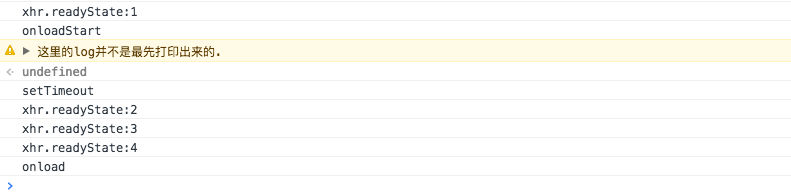
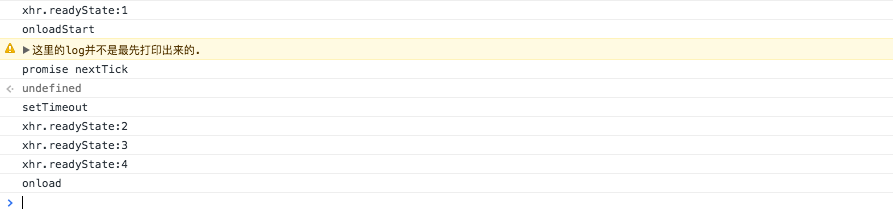
Site updated: 2017-09-25 14:49:25

diff --git a/2016/11/02/ajax/index.html b/2016/11/02/ajax/index.html
@@ -30,7 +30,7 @@
 <meta property="og:image" content="http://louiszhai.github.io/docImages/ajax20.png">
 <meta property="og:image" content="http://louiszhai.github.io/docImages/ajax21.png">
 <meta property="og:image" content="http://louiszhai.github.io/docImages/ajax26.png">
-<meta property="og:updated_time" content="2017-07-17T08:51:51.000Z">
+<meta property="og:updated_time" content="2017-09-25T06:48:29.000Z">
 <meta name="twitter:card" content="summary">
 <meta name="twitter:title" content="Ajax知识体系大梳理">
 <meta name="twitter:description" content="ajax XMLHttpRequest xhr fetch XDomainRequest jquery.ajax overrideMimeType CORS FileReader postman angular withCredentials setRequestHeader getAllResponseHeaders upload ajax与history的兼容 ajax跨域请求 ajax文件上">
@@ -269,10 +269,10 @@
 <p>在 <code>onreadystatechange</code> 事件内部, 有可能对dom进行操作. 此时浏览器便会挂起js引擎线程, 转而执行GUI渲染线程, 进行UI重绘(repaint)或者回流(reflow). 当js引擎重新执行时, GUI渲染线程又会被挂起, GUI更新将被保存起来, 等到js引擎空闲时立即被执行.</p>
 <p>以上整个ajax请求过程中, 有涉及到浏览器的4种线程. 其中除了 <code>GUI渲染线程</code> 和 <code>js引擎线程</code> 是互斥的. 其他线程相互之间, 都是可以并行执行的. 通过这样的一种方式, ajax并没有破坏js的单线程机制.</p>
 <h3 id="ajax与setTimeout排队问题"><a href="#ajax与setTimeout排队问题" class="headerlink" title="ajax与setTimeout排队问题"></a>ajax与setTimeout排队问题</h3><p>通常, ajax 和 setTimeout 的事件回调都被同等的对待, 按照顺序自动的被添加到 <code>任务队列</code> 的末尾, 等待js引擎空闲时执行. 但请注意, 并非xhr的所有回调执行都滞后于setTImeout的回调. 请看如下代码:</p>
-<figure class="highlight js"><table><tr><td class="gutter"><pre><div class="line">1</div><div class="line">2</div><div class="line">3</div><div class="line">4</div><div class="line">5</div><div class="line">6</div><div class="line">7</div><div class="line">8</div><div class="line">9</div><div class="line">10</div><div class="line">11</div><div class="line">12</div><div class="line">13</div><div class="line">14</div><div class="line">15</div><div class="line">16</div><div class="line">17</div><div class="line">18</div><div class="line">19</div><div class="line">20</div></pre></td><td class="code"><pre><div class="line"><span class="function"><span class="keyword">function</span> <span class="title">ajax</span>(<span class="params">url, method</span>)</span>&#123;</div><div class="line">  <span class="keyword">var</span> xhr = getXHR();</div><div class="line">  xhr.onreadystatechange = <span class="function"><span class="keyword">function</span>(<span class="params"></span>)</span>&#123;</div><div class="line">  	<span class="built_in">console</span>.log(<span class="string">'xhr.readyState:'</span> + <span class="keyword">this</span>.readyState);</div><div class="line">  &#125;</div><div class="line">  xhr.onloadstart = <span class="function"><span class="keyword">function</span>(<span class="params"></span>)</span>&#123;</div><div class="line">  	<span class="built_in">console</span>.log(<span class="string">'onloadStart'</span>);</div><div class="line">  &#125;</div><div class="line">  xhr.onload = <span class="function"><span class="keyword">function</span>(<span class="params"></span>)</span>&#123;</div><div class="line">  	<span class="built_in">console</span>.log(<span class="string">'onload'</span>);</div><div class="line">  &#125;</div><div class="line">  xhr.open(method, url, <span class="literal">true</span>);</div><div class="line">  xhr.setRequestHeader(<span class="string">'Cache-Control'</span>,<span class="number">3600</span>);</div><div class="line">  xhr.send();</div><div class="line">&#125;</div><div class="line"><span class="keyword">var</span> timer = setTimeout(<span class="function"><span class="keyword">function</span>(<span class="params"></span>)</span>&#123;</div><div class="line">  <span class="built_in">console</span>.log(<span class="string">'setTimeout'</span>);</div><div class="line">&#125;,<span class="number">0</span>);</div><div class="line">ajax(<span class="string">'http://louiszhai.github.io/docImages/ajax01.png'</span>,<span class="string">'GET'</span>);</div><div class="line"><span class="built_in">console</span>.warn(<span class="string">'这里的log并不是最先打印出来的.'</span>);</div></pre></td></tr></table></figure>
+<figure class="highlight js"><table><tr><td class="gutter"><pre><div class="line">1</div><div class="line">2</div><div class="line">3</div><div class="line">4</div><div class="line">5</div><div class="line">6</div><div class="line">7</div><div class="line">8</div><div class="line">9</div><div class="line">10</div><div class="line">11</div><div class="line">12</div><div class="line">13</div><div class="line">14</div><div class="line">15</div><div class="line">16</div><div class="line">17</div><div class="line">18</div><div class="line">19</div><div class="line">20</div><div class="line">21</div><div class="line">22</div><div class="line">23</div><div class="line">24</div><div class="line">25</div><div class="line">26</div><div class="line">27</div><div class="line">28</div></pre></td><td class="code"><pre><div class="line">setTimeout(<span class="function"><span class="keyword">function</span>(<span class="params"></span>)</span>&#123;</div><div class="line">  <span class="built_in">console</span>.log(<span class="string">'setTimeout'</span>);</div><div class="line">&#125;,<span class="number">0</span>);</div><div class="line"><span class="keyword">var</span> resolve;</div><div class="line"><span class="keyword">new</span> <span class="built_in">Promise</span>(<span class="function"><span class="keyword">function</span>(<span class="params">r</span>)</span>&#123;</div><div class="line">  resolve = r;</div><div class="line">&#125;).then(<span class="function"><span class="keyword">function</span>(<span class="params"></span>)</span>&#123;</div><div class="line">  <span class="built_in">console</span>.log(<span class="string">'promise nextTick'</span>);</div><div class="line">&#125;);</div><div class="line">resolve();</div><div class="line"></div><div class="line"><span class="function"><span class="keyword">function</span> <span class="title">ajax</span>(<span class="params">url, method</span>)</span>&#123;</div><div class="line">  <span class="keyword">var</span> xhr = getXHR();</div><div class="line">  xhr.onreadystatechange = <span class="function"><span class="keyword">function</span>(<span class="params"></span>)</span>&#123;</div><div class="line">  	<span class="built_in">console</span>.log(<span class="string">'xhr.readyState:'</span> + <span class="keyword">this</span>.readyState);</div><div class="line">  &#125;</div><div class="line">  xhr.onloadstart = <span class="function"><span class="keyword">function</span>(<span class="params"></span>)</span>&#123;</div><div class="line">  	<span class="built_in">console</span>.log(<span class="string">'onloadStart'</span>);</div><div class="line">  &#125;</div><div class="line">  xhr.onload = <span class="function"><span class="keyword">function</span>(<span class="params"></span>)</span>&#123;</div><div class="line">  	<span class="built_in">console</span>.log(<span class="string">'onload'</span>);</div><div class="line">  &#125;</div><div class="line">  xhr.open(method, url, <span class="literal">true</span>);</div><div class="line">  xhr.setRequestHeader(<span class="string">'Cache-Control'</span>,<span class="number">3600</span>);</div><div class="line">  xhr.send();</div><div class="line">&#125;</div><div class="line">ajax(<span class="string">'http://louiszhai.github.io/docImages/ajax01.png'</span>,<span class="string">'GET'</span>);</div><div class="line"><span class="built_in">console</span>.warn(<span class="string">'这里的log并不是最先打印出来的.'</span>);</div></pre></td></tr></table></figure>
 <p>上述代码执行结果如下图:</p>
 <p><img src="http://louiszhai.github.io/docImages/ajax27.png" alt="setTimeout &amp; ajax &amp; 同步"></p>
-<p>由于ajax异步, setTimeout回调本应该最先被执行, 然而实际上, 一次ajax请求, 并非所有的部分都是异步的, 至少”readyState==1”的 <code>onreadystatechange</code> 回调以及 <code>onloadstart</code> 回调就是同步执行的. 因此它们的输出排在最前面.</p>
+<p>由于ajax异步, setTimeout及Promise本应该最先被执行, 然而实际上, 一次ajax请求, 并非所有的部分都是异步的, 至少”readyState==1”的 <code>onreadystatechange</code> 回调以及 <code>onloadstart</code> 回调就是同步执行的. 因此它们的输出排在最前面.</p>
 <h3 id="XMLHttpRequest-属性解读"><a href="#XMLHttpRequest-属性解读" class="headerlink" title="XMLHttpRequest 属性解读"></a>XMLHttpRequest 属性解读</h3><p>首先在Chrome console下创建一个 XMLHttpRequest 实例对象xhr. 如下所示:</p>
 <p><img src="http://louiszhai.github.io/docImages/ajax01.png" alt="XMLHttpRequest"></p>
 <h4 id="inherit"><a href="#inherit" class="headerlink" title="inherit"></a>inherit</h4><p>试运行以下代码.</p>
@@ -380,7 +380,7 @@
 <p>注意第一条，readyState为<code>unset</code>之前，为xhr对象设置withCredentials属性就会抛出<code>INVALID_STATE_ERR</code>错误。</p>
 <p>目前，一些老的浏览器或webview仍然是参考w3c <a href="https://www.w3.org/TR/2011/WD-XMLHttpRequest2-20110816/#the-withcredentials-attribute" target="_blank" rel="external">2011</a>年的规范，因此为了兼容，<strong>建议在readyState为<code>opened</code>状态之后才去设置withCredentials属性</strong>。</p>
 <p>之前zepto.js就踩过这个坑，感兴趣不妨阅读<a href="https://aotu.io/notes/2015/10/26/zepto-cors/" target="_blank" rel="external">前方有坑，请绕道——Zepto 中使用 CORS</a>。</p>
-<p>注意: 该属性适用于 IE10+, opera12+及其他现代浏览器.</p>
+<p>注意: 该属性适用于 IE10+, opera12+及其他现代浏览器。Android 4.3及以下版本的webview，采用的是w3c 2011的规范，请务必在open方法调用之后再设置<code>withCredentials</code>的值。</p>
 <h4 id="abort"><a href="#abort" class="headerlink" title="abort"></a>abort</h4><p>abort方法用于取消ajax请求, 取消后, readyState 状态将被设置为 <code>0</code> (<code>UNSENT</code>). 如下, 调用abort 方法后, 请求将被取消.</p>
 <p><img src="http://louiszhai.github.io/docImages/ajax04.png" alt="Event"></p>
 <h4 id="getResponseHeader"><a href="#getResponseHeader" class="headerlink" title="getResponseHeader"></a>getResponseHeader</h4><p>getResponseHeader方法用于获取ajax响应头中指定name的值. 如果response headers中存在相同的name, 那么它们的值将自动以字符串的形式连接在一起.</p>
@@ -1144,7 +1144,7 @@
 <p><img src="http://louiszhai.github.io/docImages/ajax26.png" alt=""></p>
 <p>postman支持所有类型的http请求, 由于其向chrome申请了cookie访问权限及所有http(s)网站的访问权限. 因此可以放心使用它进行各种网站api的测试.</p>
 <p>同时, 强烈建议阅读本文的你升级postman的使用技巧, 这里有篇: <a href="https://segmentfault.com/a/1190000005055899" target="_blank" rel="external">基于Postman的API自动化测试</a> , 拿走不谢.</p>
-<h3 id="ajax移动端兼容性"><a href="#ajax移动端兼容性" class="headerlink" title="ajax移动端兼容性"></a>ajax移动端兼容性</h3><p>移动端的支持性比较弱, 使用需谨慎. 看表.</p>
+<h3 id="ajax移动端兼容性"><a href="#ajax移动端兼容性" class="headerlink" title="ajax移动端兼容性"></a>ajax移动端兼容性</h3><p>移动端的支持性，请看表.</p>
 <table>
 <thead>
 <tr>
@@ -1159,9 +1159,9 @@
 <tbody>
 <tr>
 <td style="text-align:center">XMLHttpRequest</td>
-<td style="text-align:center">8.4</td>
+<td style="text-align:center">7.1</td>
 <td style="text-align:center">-</td>
-<td style="text-align:center">4.4.4</td>
+<td style="text-align:center">4.1</td>
 <td style="text-align:center">53</td>
 <td style="text-align:center">11(part)</td>
 </tr>
@@ -1175,7 +1175,44 @@
 </tr>
 </tbody>
 </table>
-<p>本篇为ajax而生, 通篇介绍 XMLHTTPRequest 相关的知识, 力求简明, 本欲为梳理知识, 为读者答疑解惑, 但因本人理解所限, 难免有所局限, 希望正在阅读的你取其精华去其糟粕. 谢谢.</p>
+<p>其中，IOS Safari 7.1、Android Browser 4.1 4.3 4.4 的webview均是部分支持，存在的缺陷如下：</p>
+<table>
+<thead>
+<tr>
+<th style="text-align:center"></th>
+<th style="text-align:center">responseType支持json格式</th>
+<th style="text-align:center">responseType支持blob格式</th>
+<th style="text-align:center">支持timeout及ontimeout</th>
+</tr>
+</thead>
+<tbody>
+<tr>
+<td style="text-align:center">IOS Safari 7.1</td>
+<td style="text-align:center">X</td>
+<td style="text-align:center">✔</td>
+<td style="text-align:center">✔</td>
+</tr>
+<tr>
+<td style="text-align:center">Android 4.1</td>
+<td style="text-align:center">X</td>
+<td style="text-align:center">X</td>
+<td style="text-align:center">X</td>
+</tr>
+<tr>
+<td style="text-align:center">Android 4.3</td>
+<td style="text-align:center">X</td>
+<td style="text-align:center">X</td>
+<td style="text-align:center">X</td>
+</tr>
+<tr>
+<td style="text-align:center">Android 4.4</td>
+<td style="text-align:center">X</td>
+<td style="text-align:center">X</td>
+<td style="text-align:center">✔</td>
+</tr>
+</tbody>
+</table>
+<p>本篇为ajax而生，通篇介绍 XMLHTTPRequest 相关的知识，力求简明，本欲为梳理知识，为读者答疑解惑，但因本人理解所限，难免有所局限，希望正在阅读的你取其精华去其糟粕，谢谢。</p>
 <hr>
 <p>本文就讨论这么多内容,大家有什么问题或好的想法欢迎在下方参与<a href="#respond">留言和评论</a>.</p>
 <p>本文作者: <a href="https://github.com/Louiszhai" target="_blank" rel="external">louis</a></p>
